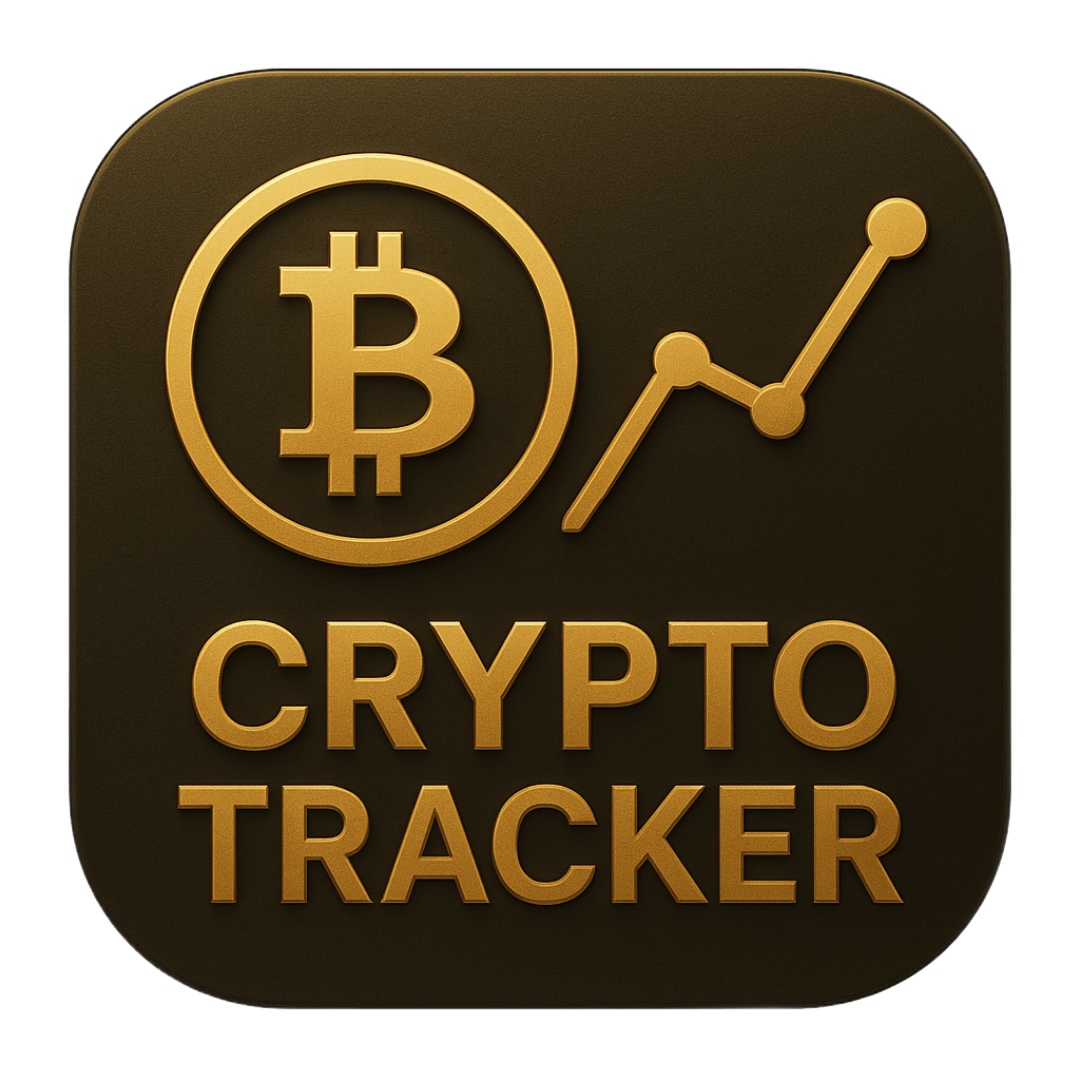
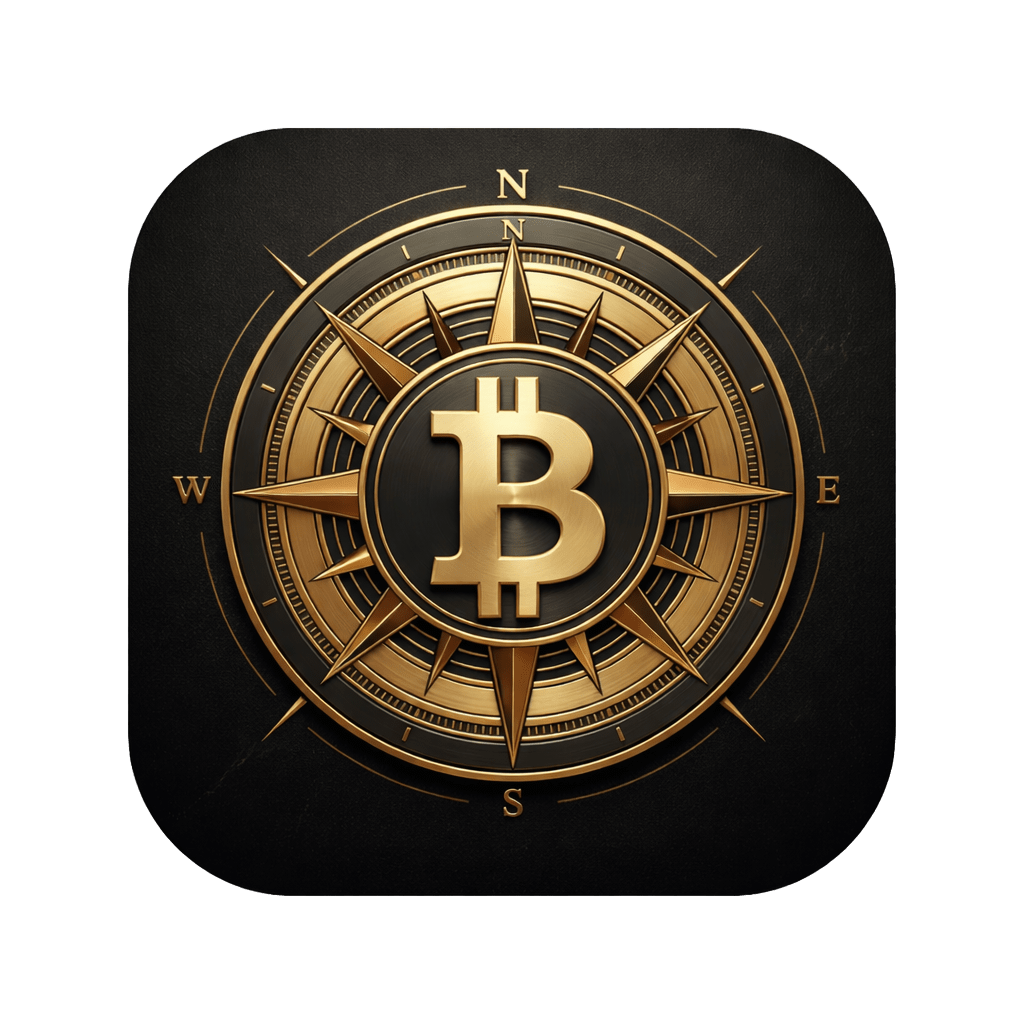
Сохранение информации юзера при перезагрузке устройства 1. Изменение pr id 2. Сохранение информации юзера при перезагрузке в AsyncStorage в файле StorageSync: coinItem - избранные монеты, userAssets - активы пользователя (количество монет) 3. Загрузка новых иконок

diff --git a/components/StorageSync/StorageSync.js b/components/StorageSync/StorageSync.js
@@ -1,0 +1,142 @@
+import { useEffect, useRef } from "react"
+import { useDispatch, useSelector } from "react-redux"
+import AsyncStorage from "@react-native-async-storage/async-storage"
+import { AppState } from "react-native"
+import { setCoin, updateUserAsset } from "../../store/reducersSlice"
+
+const StorageSync = () => {
+  const dispatch = useDispatch()
+  const coinItem = useSelector((state) => state.store.coinItem)
+  const userAssets = useSelector((state) => state.store.userAssets)
+
+  const hasLoadedRef = useRef(false)
+  const appStateRef = useRef(AppState.currentState)
+  const saveTimeoutRef = useRef(null)
+
+  // 1. Загружаем данные ОДИН РАЗ при старте приложения
+  useEffect(() => {
+    if (hasLoadedRef.current) return
+
+    const loadData = async () => {
+      try {
+        console.log("📥 StorageSync: Загружаем данные...")
+
+        const [fav, assets] = await Promise.all([
+          AsyncStorage.getItem("@user_favorites"),
+          AsyncStorage.getItem("@user_assets")
+        ])
+
+        if (fav) {
+          const favorites = JSON.parse(fav)
+          console.log(`📥 Загружено ${favorites.length} монет`)
+
+          // 🔥 ФИЛЬТРАЦИЯ: Проверяем что монеты еще не загружены
+          const existingIds = new Set(coinItem.map((c) => c.id))
+          const newFavorites = favorites.filter((coin) => !existingIds.has(coin.id))
+
+          newFavorites.forEach((coin) => {
+            dispatch(setCoin(coin))
+          })
+
+          if (newFavorites.length < favorites.length) {
+            console.log(
+              `⚠ Пропущено ${favorites.length - newFavorites.length} дубликатов`
+            )
+          }
+        }
+
+        if (assets) {
+          const assetsData = JSON.parse(assets)
+          console.log(`📥 Активы: ${Object.keys(assetsData).length}`)
+
+          Object.entries(assetsData).forEach(([coinId, amount]) => {
+            dispatch(updateUserAsset({ coinId, amount }))
+          })
+        }
+
+        hasLoadedRef.current = true
+        console.log("✅ Загрузка завершена")
+      } catch (e) {
+        console.error("❌ Ошибка загрузки:", e)
+      }
+    }
+
+    loadData()
+  }, [dispatch, coinItem]) // Добавили coinItem для проверки дубликатов
+
+  // 2. Сохраняем только при закрытии приложения
+  useEffect(() => {
+    const saveOnExit = async () => {
+      try {
+        // 🔥 ОТМЕНЯЕМ предыдущий таймер если есть
+        if (saveTimeoutRef.current) {
+          clearTimeout(saveTimeoutRef.current)
+        }
+
+        // 🔥 ДЕБАУНС: сохраняем через 300мс после последнего вызова
+        saveTimeoutRef.current = setTimeout(async () => {
+          const assetsCount = Object.keys(userAssets).length
+          console.log(`💾 Сохраняем: Монеты: ${coinItem.length}, Активы: ${assetsCount}`)
+
+          // 🔥 ФИЛЬТРАЦИЯ: сохраняем только актуальные активы
+          const coinIds = new Set(coinItem.map((coin) => coin.id))
+          const filteredAssets = {}
+
+          Object.entries(userAssets).forEach(([coinId, amount]) => {
+            if (coinIds.has(coinId)) {
+              filteredAssets[coinId] = amount
+            }
+          })
+
+          const favoritesToSave = coinItem.map((coin) => ({
+            id: coin.id,
+            name: coin.name,
+            symbol: coin.symbol,
+            // Добавление ценовых данных, чтобы не было пробелов при перезагрузке в карточках избранного
+            current_price: coin.current_price || 0,
+            price_change_percentage_24h: coin.price_change_percentage_24h || 0,
+            market_cap_rank: coin.market_cap_rank || 0,
+            //  market_cap: savedCoin.market_cap || 0,
+            // timestamp когда данные были обновлены
+            price_updated_at: new Date().toISOString()
+          }))
+
+          await AsyncStorage.setItem("@user_favorites", JSON.stringify(favoritesToSave))
+          await AsyncStorage.setItem("@user_assets", JSON.stringify(filteredAssets))
+          console.log("✅ Данные сохранены")
+        }, 300)
+      } catch (e) {
+        console.error("❌ Ошибка сохранения:", e)
+      }
+    }
+
+    // Слушаем изменение состояния приложения
+    const subscription = AppState.addEventListener("change", (nextAppState) => {
+      // Когда приложение уходит в фон - сохраняем
+      if (
+        appStateRef.current === "active" &&
+        (nextAppState === "background" || nextAppState === "inactive")
+      ) {
+        console.log("📱 Приложение сворачивается...")
+        saveOnExit()
+      }
+
+      appStateRef.current = nextAppState
+    })
+
+    // Сохраняем при размонтировании компонента
+    return () => {
+      subscription.remove()
+      saveOnExit()
+
+      // Очищаем таймер
+      if (saveTimeoutRef.current) {
+        clearTimeout(saveTimeoutRef.current)
+      }
+    }
+  }, [coinItem, userAssets])
+
+  return null
+}
+
+export default StorageSync

diff --git a/store/reducersSlice.js b/store/reducersSlice.js
@@ -28,11 +28,22 @@ const reducersSlice = createSlice({
     setFlag: (state, action) => {
       state.flag = action.payload
     },
+
     removeCoin: (state, action) => {
       const nameCoinForRemove = action.payload
+
+      // Удаляем монету
       state.coinItem = state.coinItem.filter(
         (coin) => coin.name !== nameCoinForRemove.name
       )
+
+      //  удал монеты из userAssets
+      if (state.userAssets[nameCoinForRemove.id]) {
+        const newAssets = { ...state.userAssets }
+        delete newAssets[nameCoinForRemove.id]
+        state.userAssets = newAssets
+        console.log(`🗑 Удален актив для ${nameCoinForRemove.name}`)
+      }
     },
     setChartDays: (state, action) => {
       state.chartDays = action.payload

diff --git a/App.js b/App.js
@@ -11,6 +11,7 @@ import { loadAlerts, markAlertAsRead, triggerAlertFromServer } from "./store/ale
 import { AppState, View, Text } from "react-native"
 import { priceAlertsSelector } from "./store/alertsSelectors"
 import AlertConsentModal from "./components/AlertConsentModal/AlertConsentModal"
+import StorageSync from "./components/StorageSync/StorageSync"
 
 // Компонент для отображения ошибок
 const ErrorBoundary = ({ children }) => {
@@ -361,6 +362,7 @@ function AppContent() {
 
   return (
     <GestureHandlerRootView style={{ flex: 1 }}>
+      <StorageSync />
       <AppRoute />
       {/* рендер модалки */}
       <AlertConsentModal
